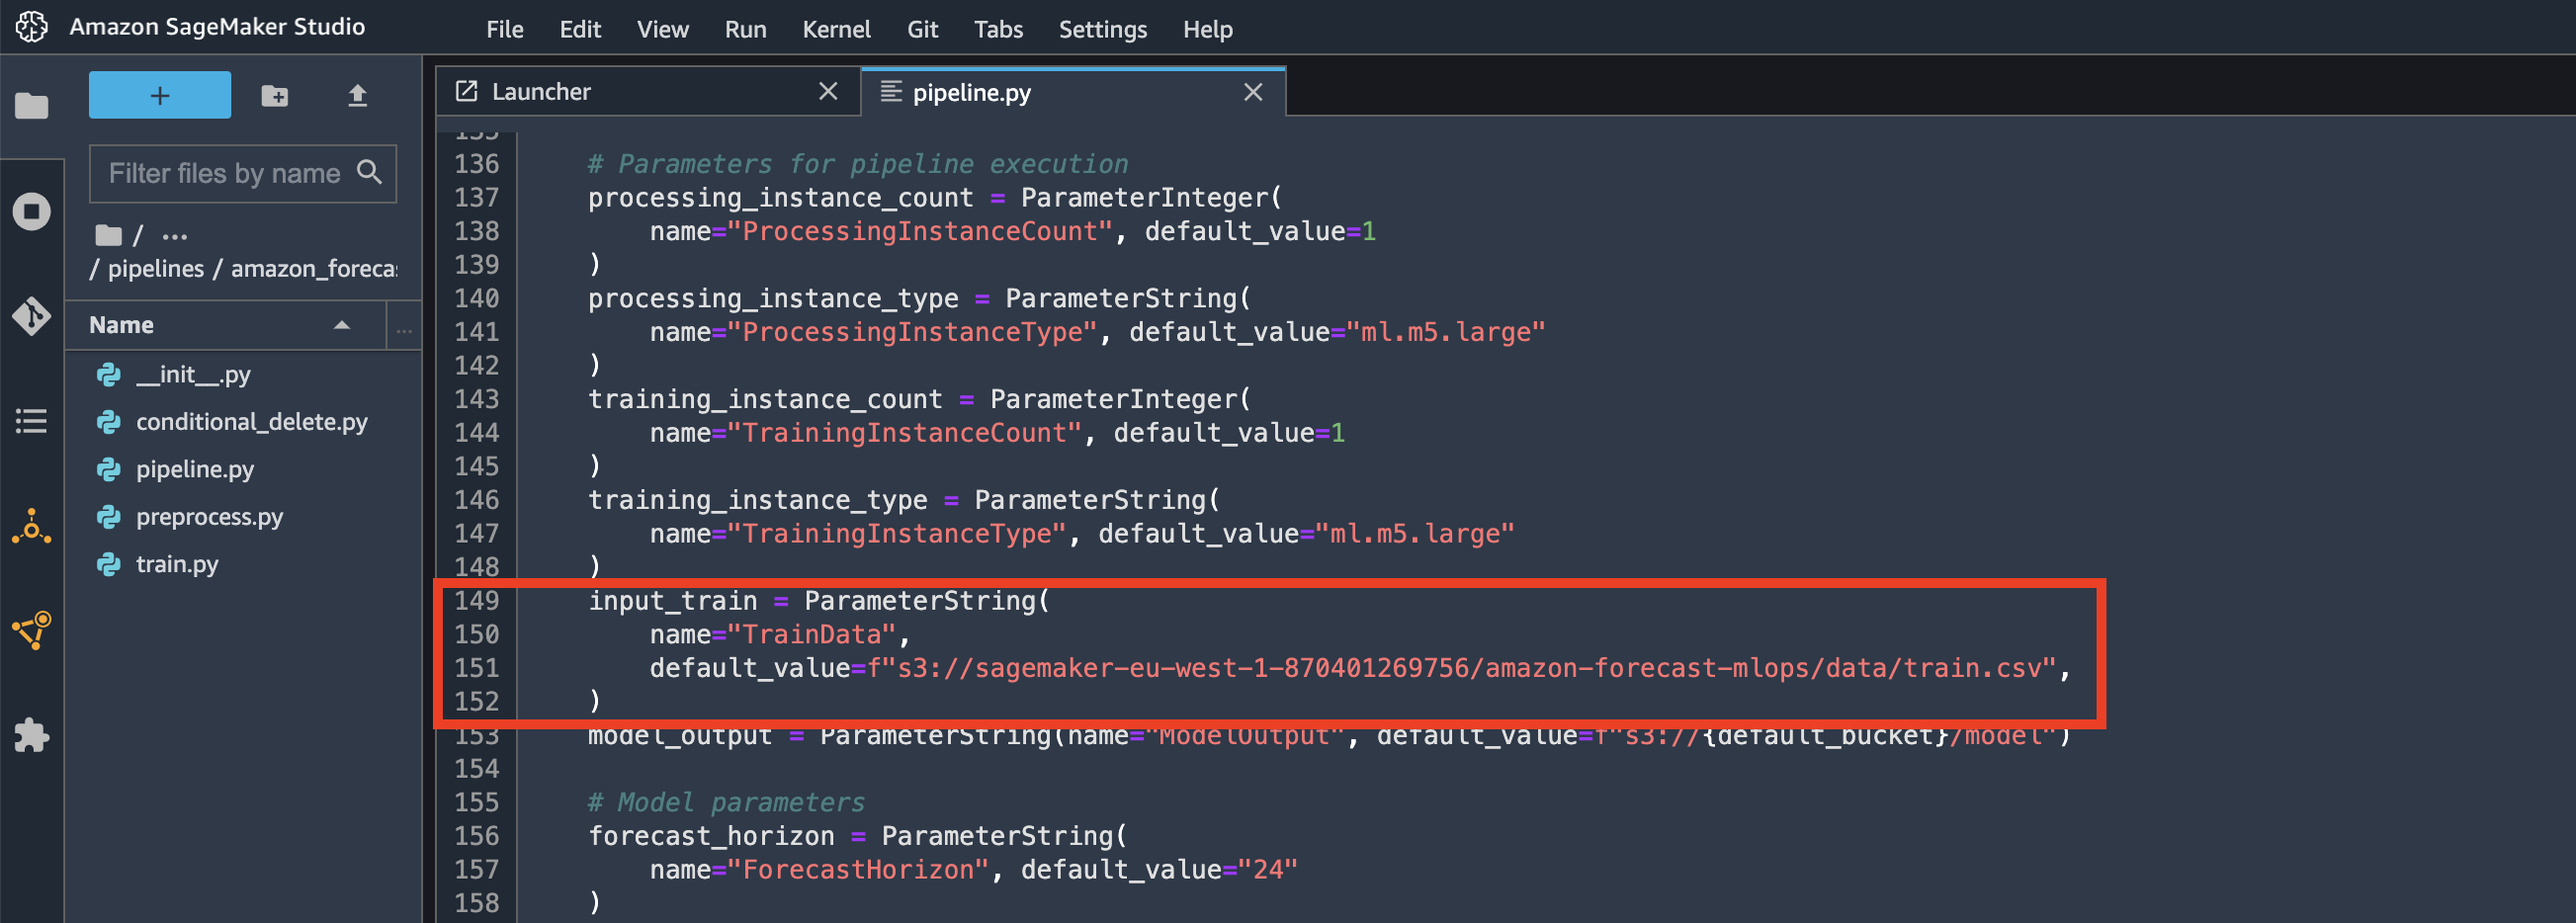
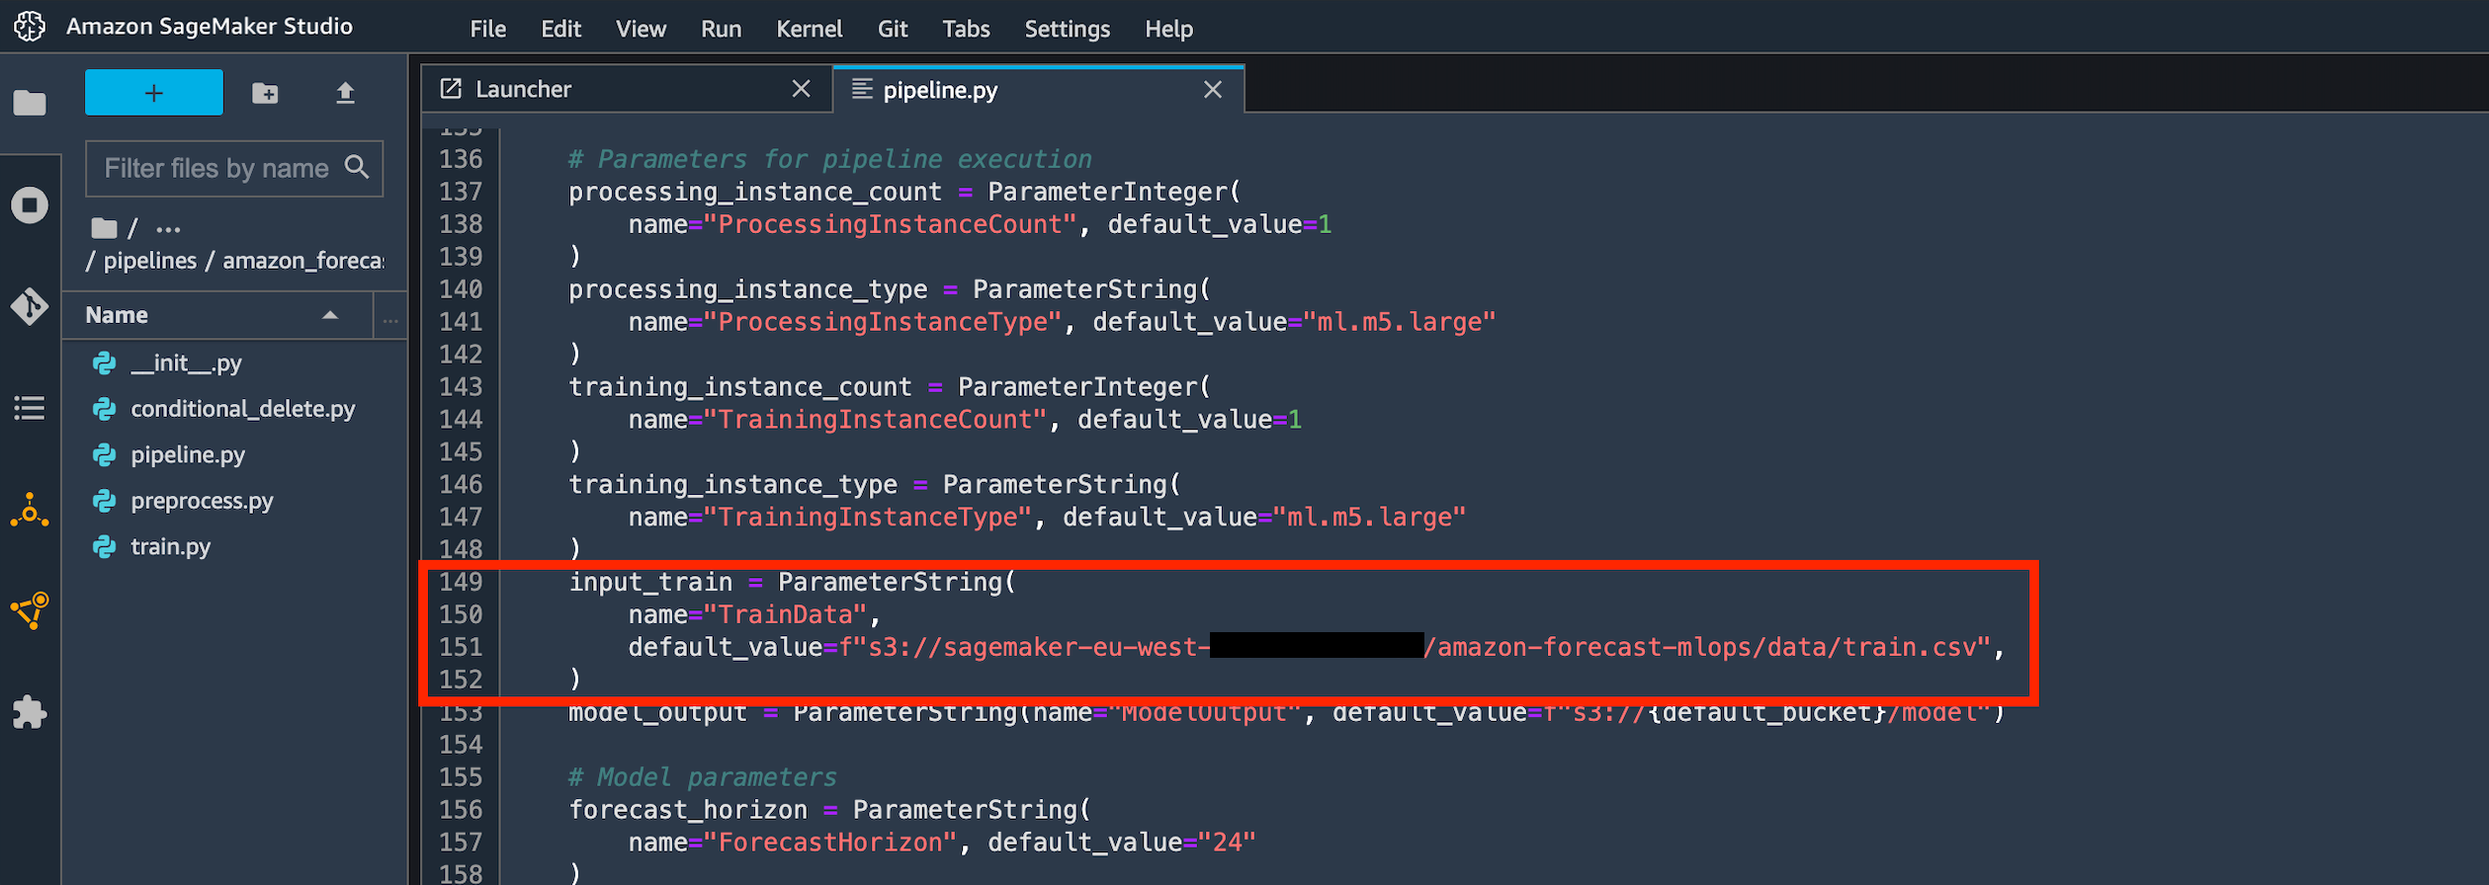
Removed sensitive data

diff --git a/machine-learning/sagemaker-amazonforecast-mlops/1-step.md b/machine-learning/sagemaker-amazonforecast-mlops/1-step.md
@@ -1,4 +1,4 @@
-# How to create a custom MLOps Project using Amazon Forecast for training
+# How to create a custom SageMaker MLOps Project using Amazon Forecast for training
 
 SageMaker Projects help organizations set up and standardize developer environments for data scientists and CI/CD systems for MLOps engineers. Projects also help organizations set up dependency management, code repository management, build reproducibility, and artifact sharing.
 
@@ -72,7 +72,7 @@ Lets first create the model build and model train MLOps project and take a detai
 
      <img src="machine-learning/sagemaker-amazonforecast-mlops/screen14.png"  width="20%" height="20%">
 
-2. Once you choose Projects, click on Create project as below:
+2. Once you choose Projects, click on **Create project** as below:
 
      <img src="machine-learning/sagemaker-amazonforecast-mlops/screen15.png"  width="20%" height="20%">
 
@@ -80,7 +80,7 @@ Lets first create the model build and model train MLOps project and take a detai
 
      <img src="machine-learning/sagemaker-amazonforecast-mlops/screen16.png"  width="70%" height="70%">
 
-4. Next, give a name to the project, a short description and click on the "Create Project" button.
+4. Next, give a name to the project, a short description and click on the **Create Project** button.
 
      <img src="machine-learning/sagemaker-amazonforecast-mlops/screen17.png"  width="70%" height="70%">
 
@@ -136,7 +136,7 @@ To modify the sample code from this launched template, we first need to clone th
 4. Copy the full URI for the training data. You will need this later on to modify the **input_train** parameter in the pipeline.py script. For this example:
 
     ```
-    s3://sagemaker-eu-west-1-870401269756/amazon-forecast-mlops/data/train.csv
+    s3://<your sagemaker s3 bucket>/amazon-forecast-mlops/data/train.csv
     ```
 
 ## **Modify the seed code on the ModelBuild Repo:**
@@ -172,9 +172,11 @@ The ModelBuild repository contains the code for preprocessing, training, and eva
     ```
     input_train = ParameterString(
         name="TrainData",
-        default_value=f"s3://sagemaker-eu-west-1-870401269756/amazon-forecast-mlops/data/train.csv",
+        default_value=f"s3://<your sagemaker s3 bucket>/amazon-forecast-mlops/data/train.csv",
     )
     ```
+
+    >NOTE: Replace <your sagemaker s3 bucket> with your s3 bucket name
 
     <img src="machine-learning/sagemaker-amazonforecast-mlops/screen23b.png"  width="70%" height="70%"> 
 
@@ -212,7 +214,7 @@ The ModelBuild repository contains the code for preprocessing, training, and eva
 
     <img src="machine-learning/sagemaker-amazonforecast-mlops/screen70.png"  width="70%" height="70%"> 
 
-11. Click on the bucket. For this example **sagemaker-eu-west-1-870401269756**
+11. Click on the bucket. For this example **sagemaker-eu-west-1-\***
 
 12. Click on the **amazon-forecast-mlops** and create a folder.
 
@@ -224,7 +226,7 @@ The ModelBuild repository contains the code for preprocessing, training, and eva
 
 ## **Add Amazon Forecast permissions to the SageMaker Service Catalog execution role**
 
-The AmazonSageMakerServiceCatalogProductsExecutionRole is used to execute the pipeline.
+The **AmazonSageMakerServiceCatalogProductsExecutionRole** is used to execute the pipeline.
 
 1. From the AWS Console search for **IAM** and and open in a new tab.
 
@@ -298,7 +300,7 @@ Committing these changes to the CodeCommit repository (easily done on the Studio
 
     <img src="machine-learning/sagemaker-amazonforecast-mlops/screen35.png"  width="70%" height="70%"> 
 
-3. Click on the **sagemaker-ServiceCatalogMLOpsAmzForecast-p-*-modelbuild** pipeline.
+3. Click on the **sagemaker-ServiceCatalogMLOpsAmzForecast-p-\*-modelbuild** pipeline.
 
     <img src="machine-learning/sagemaker-amazonforecast-mlops/screen36.png"  width="70%" height="70%"> 
 
@@ -513,3 +515,4 @@ In this lab we have walked through how an ML engineer can re utilise one of the 
 As optional steps we could use AWS Lambda to trigger retraining when new training data is loaded into s3. To visualize the forecast predictions we could configure Amazon Athena and Amazon Quicksight to visualize and analyze the results. But that is out of scope for this workshop :)
 
 ![Final Architecture](screen100.png)
+
